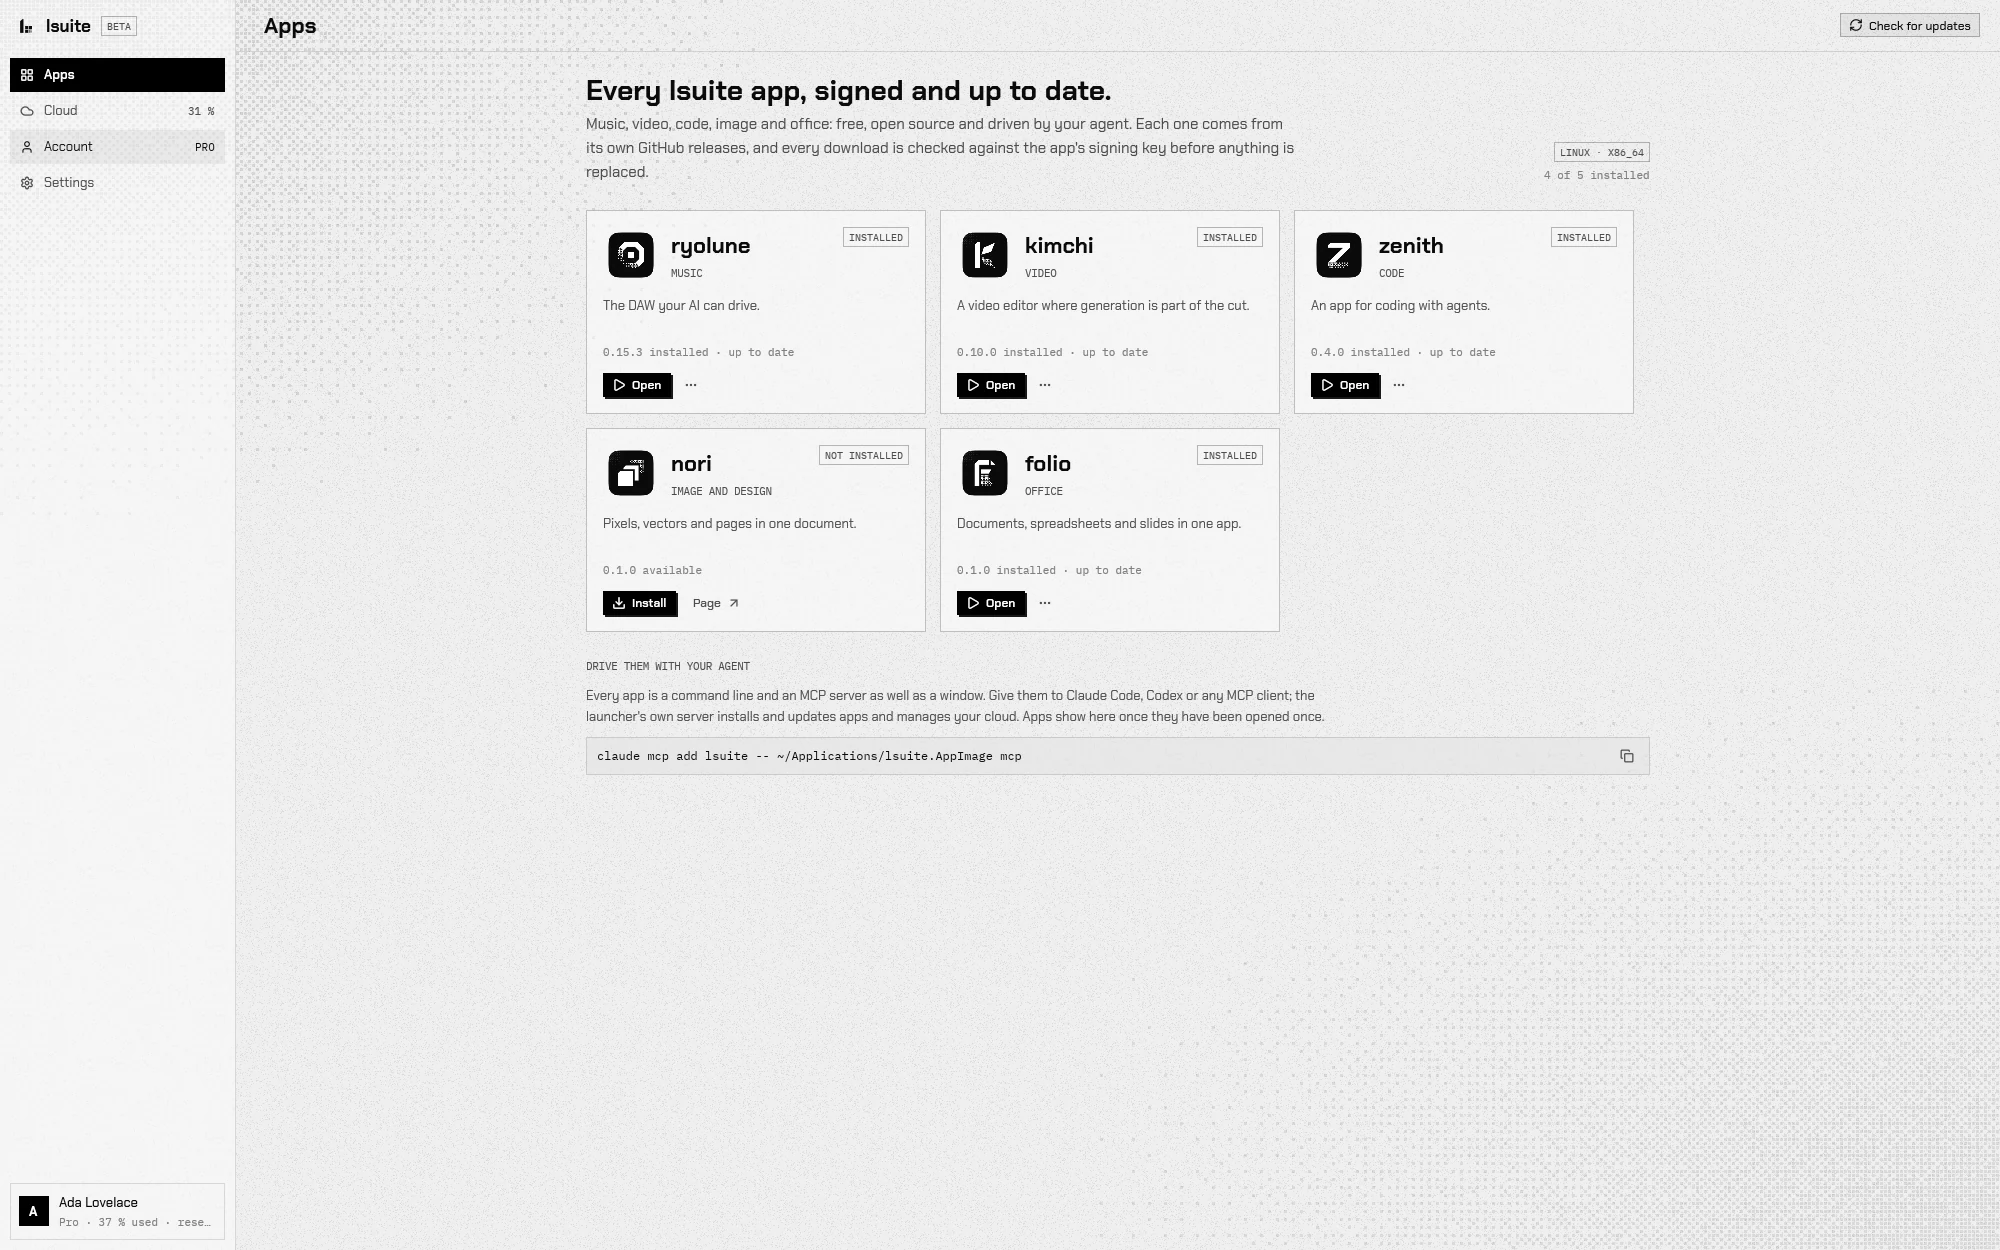
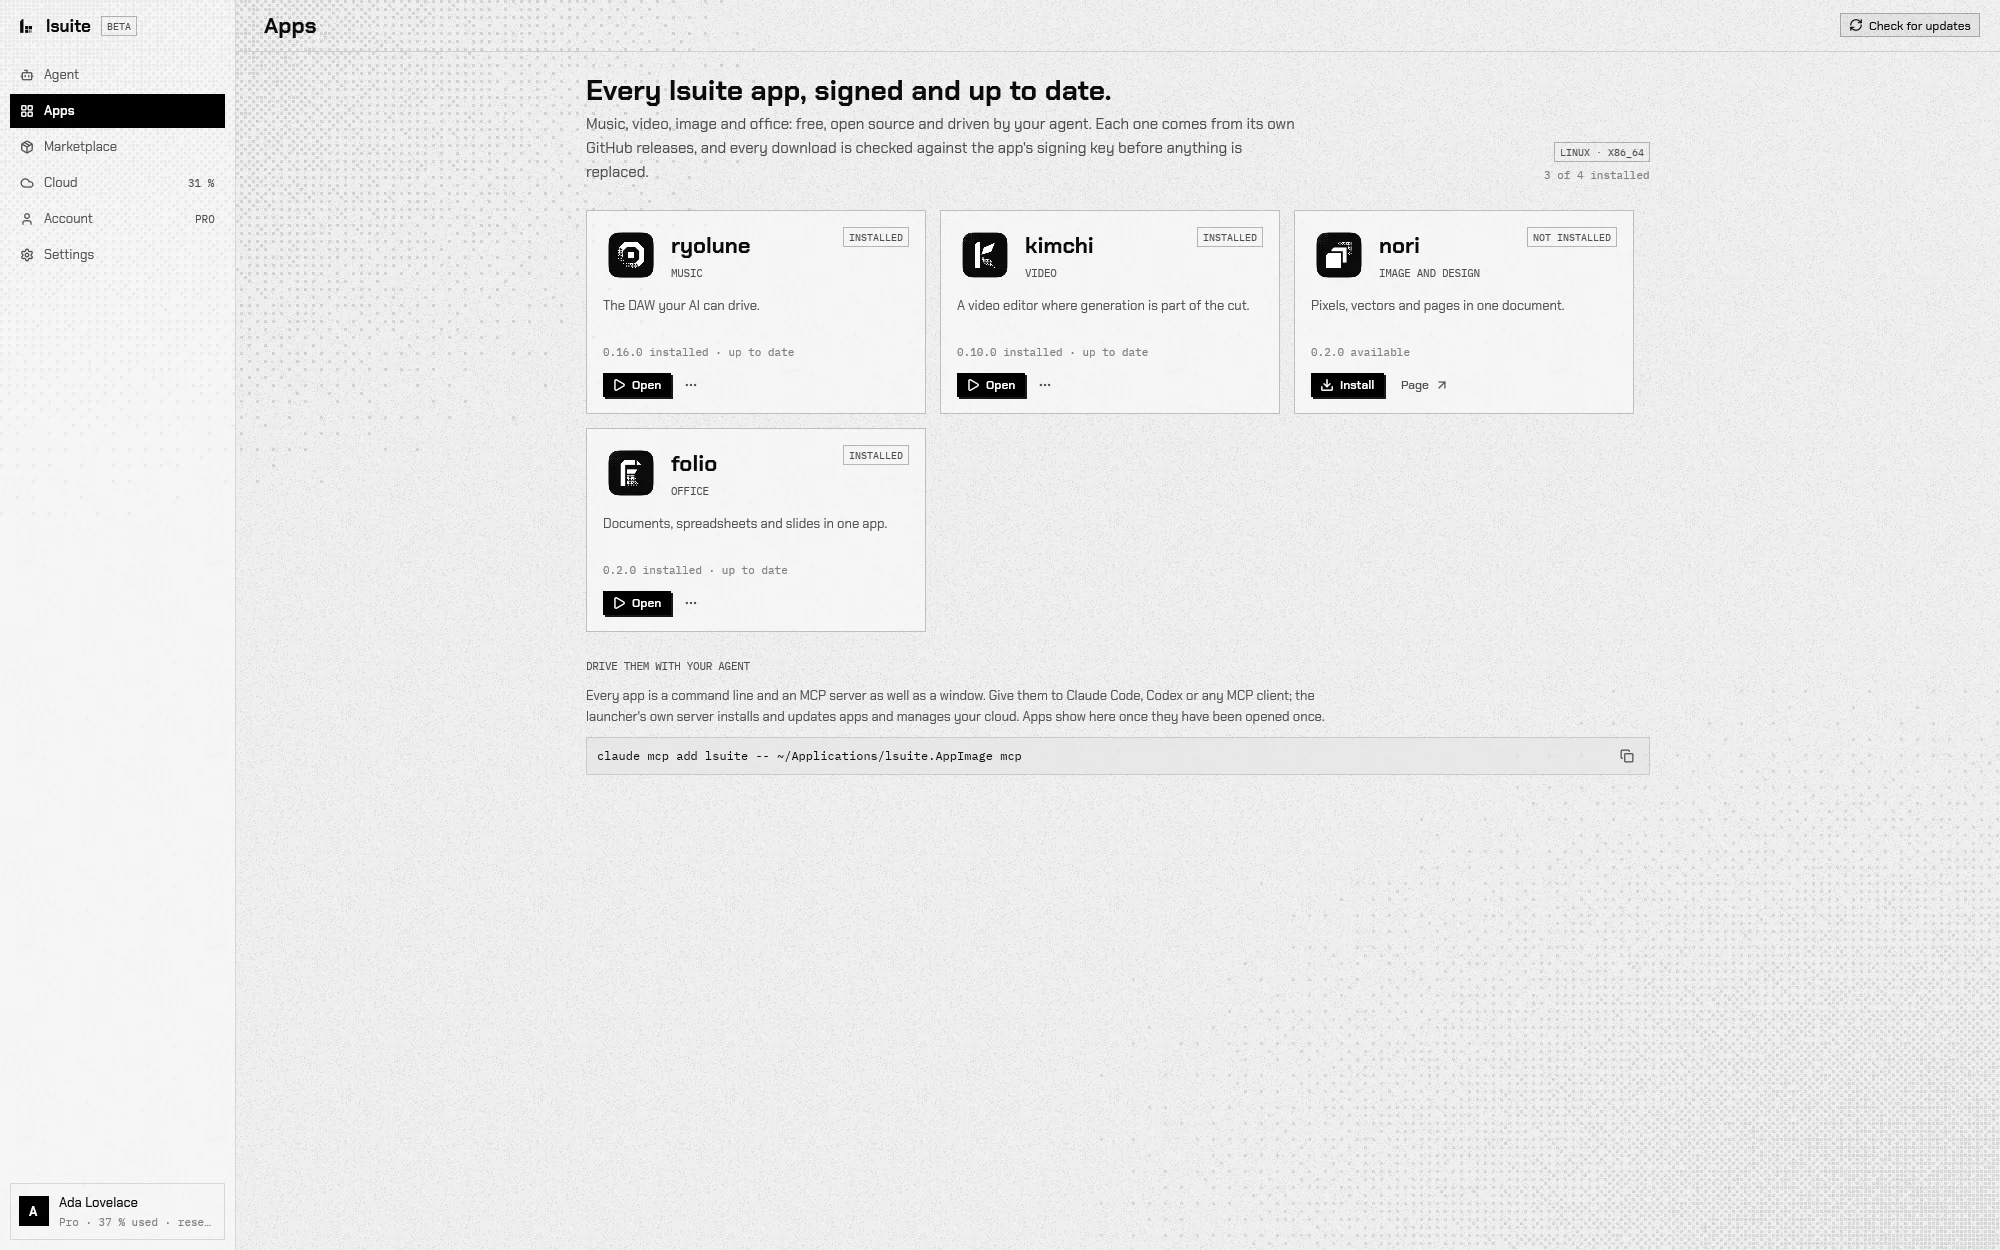
Launcher page: retake the apps screenshots without zenith
The /launcher hero showed a zenith card. apps.webp and apps-light.webp are retaken from the
launcher built from main (0.2.0) on a virtual screen at 2000x1250, dark and light, against a local
demo server, as before: ryolune, kimchi and folio installed, nori available, the current versions.
The alt text says "the four lsuite apps" again.

diff --git a/pages/launcher.html b/pages/launcher.html
@@ -45,7 +45,7 @@
       <p class="fine hero__fine reveal" style="--d:4">Beta · Version %VERSION:launcher% · free and MIT licensed · Linux, macOS and Windows coming soon · native Rust app · drivable by your AI · no telemetry</p>
     </div>
     <div class="wrap">
-      <figure class="shot shot--hero reveal" style="--d:3"><picture><source srcset="/assets/img/launcher/apps-light.webp" media="(prefers-color-scheme: light)"><img src="/assets/img/launcher/apps.webp" width="2000" height="1250" alt="The lsuite apps in the launcher, with their versions and updates." loading="lazy"></picture></figure>
+      <figure class="shot shot--hero reveal" style="--d:3"><picture><source srcset="/assets/img/launcher/apps-light.webp" media="(prefers-color-scheme: light)"><img src="/assets/img/launcher/apps.webp" width="2000" height="1250" alt="The four lsuite apps in the launcher, with their versions and updates." loading="lazy"></picture></figure>
     </div>
   </section>
 

diff --git a/assets/img/SOURCES.md b/assets/img/SOURCES.md
@@ -11,4 +11,4 @@ It has been cropped and combined with vector and text layers in nori. These adap
 captures are shared under CC BY-SA 4.0; this attribution also applies to their use on the home page.
 
 Third-party app/provider logo sources remain documented in `logos/SOURCES.md`.
-- `launcher/*.webp`: the lsuite launcher (`launcher/`, release AppImage 0.1.0) on a virtual screen at 2000×1250, dark and light, against a local demo server (demo account, demo files) on 2026-10-07.
+- `launcher/*.webp`: the lsuite launcher (`launcher/`, release AppImage 0.1.0) on a virtual screen at 2000×1250, dark and light, against a local demo server (demo account, demo files) on 2026-10-07; `launcher/apps*.webp` retaken on 2026-10-10 from the launcher built from `main` (0.2.0, without zenith), same setup.
